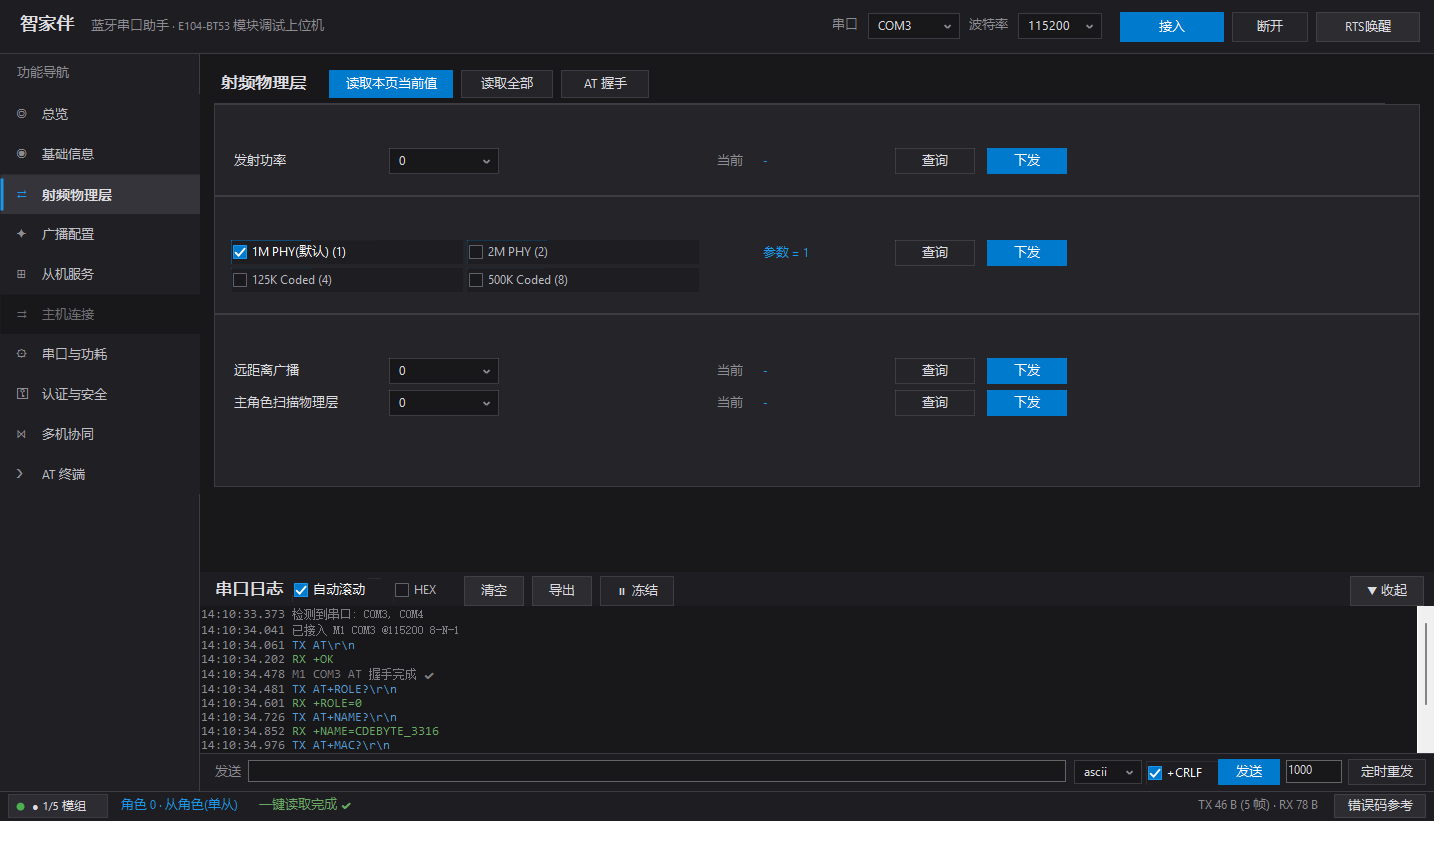
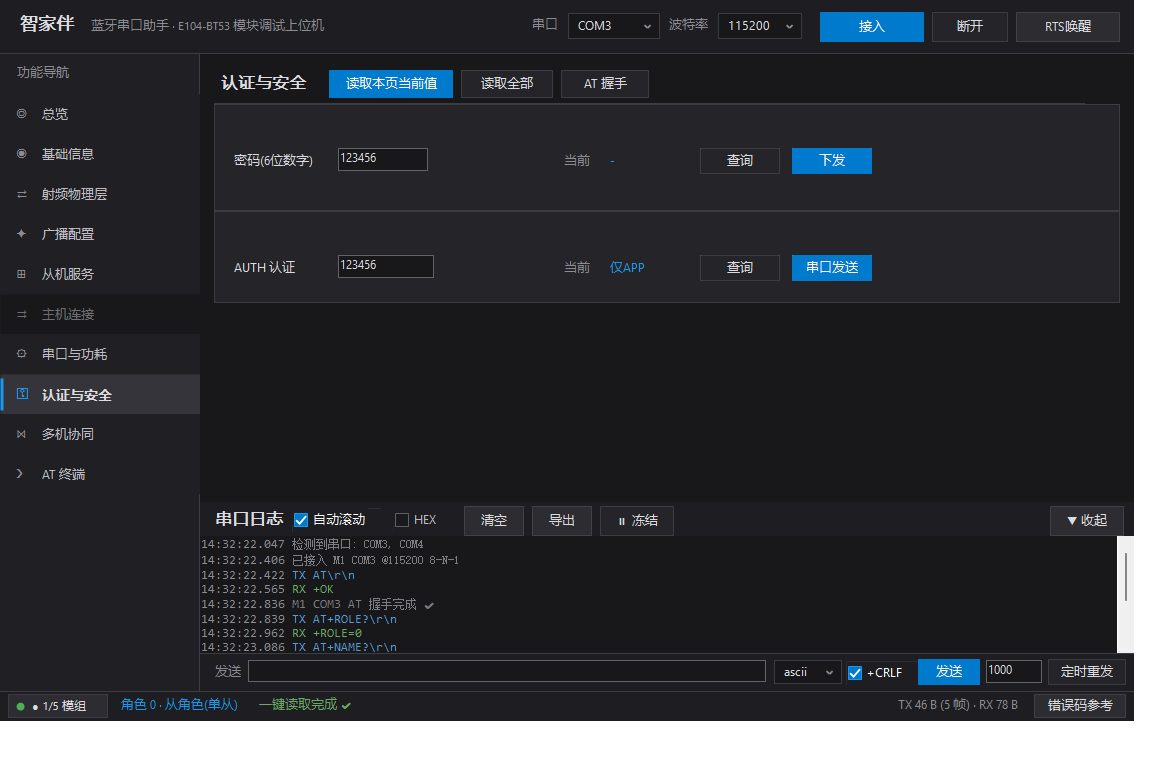
fix(ui): 认证页改为网格对齐,按钮文字自适应;多机列表深色表头+尾部填充列;支持 E104_PAGE 调试参数

diff --git a/src/pages_multi.cs b/src/pages_multi.cs
@@ -41,16 +41,46 @@ namespace E104
 
             devLv = new ListView();
             devLv.View = View.Details; devLv.FullRowSelect = true; devLv.HideSelection = false;
-            devLv.GridLines = true; devLv.BorderStyle = BorderStyle.FixedSingle;
+            devLv.GridLines = false; devLv.BorderStyle = BorderStyle.FixedSingle;
             devLv.BackColor = Color.FromArgb(24, 24, 27); devLv.ForeColor = Theme.TxT; devLv.Font = Theme.FMonoS;
+            devLv.OwnerDraw = true;
+            devLv.DrawColumnHeader += delegate(object s, DrawListViewColumnHeaderEventArgs e)
+            {
+                // 深色表头(系统默认是白底,与主题割裂)
+                using (SolidBrush b = new SolidBrush(Color.FromArgb(38, 38, 43)))
+                    e.Graphics.FillRectangle(b, e.Bounds);
+                using (Pen p = new Pen(Theme.Border))
+                    e.Graphics.DrawLine(p, e.Bounds.Left, e.Bounds.Bottom - 1, e.Bounds.Right, e.Bounds.Bottom - 1);
+                TextRenderer.DrawText(e.Graphics, e.Header.Text, Theme.F,
+                    e.Bounds, Color.FromArgb(200, 200, 208),
+                    TextFormatFlags.Left | TextFormatFlags.VerticalCenter | TextFormatFlags.NoPadding);
+            };
+            devLv.DrawItem += delegate(object s, DrawListViewItemEventArgs e) { };
+            devLv.DrawSubItem += delegate(object s, DrawListViewSubItemEventArgs e)
+            {
+                Color bg = (e.Item.Selected) ? Color.FromArgb(0, 60, 100) : Color.FromArgb(24, 24, 27);
+                using (SolidBrush b = new SolidBrush(bg)) e.Graphics.FillRectangle(b, e.Bounds);
+                Color fg = (e.ColumnIndex == 0) ? Theme.AccentHi : Theme.TxT;
+                TextRenderer.DrawText(e.Graphics, e.SubItem.Text, Theme.FMonoS,
+                    e.Bounds, fg, TextFormatFlags.Left | TextFormatFlags.VerticalCenter | TextFormatFlags.NoPadding);
+            };
             devLv.Columns.Add("编号", 60); devLv.Columns.Add("串口", 90);
             devLv.Columns.Add("角色", 90); devLv.Columns.Add("广播名", 150);
             devLv.Columns.Add("MAC", 170); devLv.Columns.Add("固件", 120);
             devLv.Columns.Add("状态", 100);
+            devLv.Columns.Add("", 40);   // 尾部填充列,吃掉右侧留白(否则表头/底色露出系统白色)
             rs.Host.Controls.Add(devLv);
-            devLv.SetBounds(14, rs.Y, 860, 128);
-            rs.Host.Resize += delegate { devLv.Width = Math.Max(500, rs.Host.ClientSize.Width - 28); };
-            rs.NewRow(134);
+            devLv.SetBounds(14, rs.Y, 860, 96);
+            rs.Host.Resize += delegate
+            {
+                devLv.Width = Math.Max(500, rs.Host.ClientSize.Width - 28);
+                // 尾部列自适应剩余宽度
+                int used = 0;
+                for (int ci = 0; ci < devLv.Columns.Count - 1; ci++) used += devLv.Columns[ci].Width;
+                int last = devLv.ClientSize.Width - used - 4;
+                devLv.Columns[devLv.Columns.Count - 1].Width = Math.Max(10, last);
+            };
+            rs.NewRow(102);
             devLv.DoubleClick += delegate { SetActiveSelected(); };
 
             rs.RowBegin(0);

diff --git a/tools/click_nav.cs b/tools/click_nav.cs
@@ -1,0 +1,52 @@
+// click_nav.cs — 通过模拟点击左侧导航按钮切换到指定页(调试专用)
+using System;
+using System.Diagnostics;
+using System.Drawing;
+using System.Drawing.Imaging;
+using System.Runtime.InteropServices;
+using System.Windows.Forms;
+
+class ClickNav
+{
+    [DllImport("user32.dll")] static extern bool SetForegroundWindow(IntPtr h);
+    [DllImport("user32.dll")] static extern bool SetCursorPos(int x, int y);
+    [DllImport("user32.dll")] static extern void mouse_event(uint f, uint dx, uint dy, uint d, UIntPtr e);
+    [DllImport("user32.dll")] static extern bool GetWindowRect(IntPtr h, out RECT r);
+    struct RECT { public int L, T, R, B; }
+    const uint LEFTDOWN = 0x0002, LEFTUP = 0x0004;
+
+    static int Main(string[] args)
+    {
+        if (args.Length < 3) { Console.WriteLine("用法: ClickNav.exe <pid> <导航序号0-9> <out.png>"); return 2; }
+        int pid = int.Parse(args[0]);
+        int nav = int.Parse(args[1]);
+        string outPng = args[2];
+        Process p = Process.GetProcessById(pid);
+        IntPtr h = p.MainWindowHandle;
+        if (h == IntPtr.Zero) { Console.WriteLine("无主窗口"); return 1; }
+        SetForegroundWindow(h);
+        System.Threading.Thread.Sleep(400);
+
+        RECT r; GetWindowRect(h, out r);
+        // 窗口含标题栏(约31px)与边框;导航起点在客户区内 y=40,每项高 40
+        int titleBar = 31;
+        int x = r.L + 100;
+        int y = r.T + titleBar + 40 + nav * 40 + 20;
+        SetCursorPos(x, y);
+        System.Threading.Thread.Sleep(150);
+        mouse_event(LEFTDOWN, 0, 0, 0, UIntPtr.Zero);
+        System.Threading.Thread.Sleep(80);
+        mouse_event(LEFTUP, 0, 0, 0, UIntPtr.Zero);
+        System.Threading.Thread.Sleep(700);
+
+        int w = r.R - r.L, ht = r.B - r.T;
+        using (Bitmap bmp = new Bitmap(w, ht))
+        using (Graphics g = Graphics.FromImage(bmp))
+        {
+            g.CopyFromScreen(r.L, r.T, 0, 0, new Size(w, ht));
+            bmp.Save(outPng, ImageFormat.Png);
+        }
+        Console.WriteLine("OK 点击导航 " + nav + " 并截图 → " + outPng);
+        return 0;
+    }
+}

diff --git a/src/pages_extra.cs b/src/pages_extra.cs
@@ -866,13 +866,33 @@ namespace E104
 
             Card c2 = MkCard(7, "APP 配置认证 AUTH(6.3.25)", "必须大写;实际由手机 APP 配置通道发送");
             RowStack rs2 = new RowStack(c2.Body);
-            rs2.RowBegin(0);
-            rs2.RowTitle("AUTH 认证", Tips["AUTH"]);
+
+            // 与上一张卡片同一套网格列:名称/输入/当前/值/查询/下发 全部对齐
+            Label aLbl = new Label();
+            aLbl.Text = "AUTH 认证"; aLbl.ForeColor = Theme.TxT; aLbl.Font = Theme.F; aLbl.AutoSize = true;
+            DarkTips.Set(aLbl, Tips["AUTH"]);
+
             authTxt = new TextBox(); Theme.StyleText(authTxt); authTxt.Width = 96; authTxt.Text = "123456";
-            rs2.RowControl(authTxt, 16, Tips["AUTH"]);
-            FlatBtn bgo = rs2.RowButton("串口发送(实测用)", 80, BtnKind.Normal, Tips["AUTH"]);
+            DarkTips.Set(authTxt, Tips["AUTH"]);
+
+            Label aKey = new Label(); aKey.Text = "当前"; aKey.ForeColor = Theme.Dim; aKey.AutoSize = true;
+            Label aVal = Theme.Cur(); aVal.AutoSize = true; aVal.Text = "仅APP";
+            DarkTips.Set(aVal, "AUTH 认证仅在手机 APP 配置通道有效\n串口发送 AT+AUTH 会返回 +ERR=4(实测正常现象)");
+            _cur["CUR_AUTH"] = aVal;
+
+            FlatBtn bq2 = new FlatBtn("查询", BtnKind.Normal); bq2.Width = 80; bq2.Height = 26;
+            bq2.Anchor = AnchorStyles.Right;
+            bq2.Click += delegate { QueryOne("AUTH"); DarkTips.Set(aVal, Tips["AUTH"]); };
+
+            // 按钮文案较长,按文字实测宽度,避免被截断
+            FlatBtn bgo = new FlatBtn("串口发送", BtnKind.Accent);
+            bgo.Height = 26;
+            bgo.Width = Math.Max(96, TextRenderer.MeasureText("串口发送", Theme.F).Width + 26);
+            bgo.Anchor = AnchorStyles.Right;
+            DarkTips.Set(bgo, Tips["AUTH"]);
             bgo.Click += delegate { SendAndWait("AT+AUTH=" + authTxt.Text, null); };
-            rs2.RowEnd(2);
+
+            rs2.AddGridRow(aLbl, authTxt, aKey, aVal, bq2, bgo);
             CardEnd(c2, rs2);
         }
 

diff --git a/src/program.cs b/src/program.cs
@@ -38,6 +38,10 @@ namespace E104
                     string[] args = Environment.GetCommandLineArgs();
                     int wantPage = -1;
                     bool autoConn = false;
+                    // 同时支持 --page:N 参数与环境变量 E104_PAGE(参数在部分启动方式下会丢失)
+                    string envPage = Environment.GetEnvironmentVariable("E104_PAGE");
+                    int ep;
+                    if (!string.IsNullOrEmpty(envPage) && int.TryParse(envPage, out ep)) wantPage = ep;
                     for (int i = 0; i < args.Length; i++)
                     {
                         if (args[i] != null && args[i].StartsWith("--page:", StringComparison.Ordinal))
@@ -47,10 +51,25 @@ namespace E104
                         }
                         if (args[i] != null && args[i] == "--autoconnect") autoConn = true;
                     }
-                    if (wantPage >= 0)
-                        f.Shown += delegate { f.BeginInvoke((MethodInvoker)delegate { f.SwitchPage(wantPage); }); };
+                    if (Environment.GetEnvironmentVariable("E104_AUTOCONNECT") == "1") autoConn = true;
+                    // 先连接;页面切换延后到应用自身定时器(避免被角色门控覆盖)
                     if (autoConn)
                         f.Shown += delegate { f.BeginInvoke((MethodInvoker)delegate { f.Connect(); }); };
+                    if (wantPage >= 0)
+                    {
+                        int target = wantPage;
+                        f.Shown += delegate
+                        {
+                            System.Windows.Forms.Timer t = new System.Windows.Forms.Timer();
+                            t.Interval = 2000;
+                            t.Tick += delegate
+                            {
+                                t.Stop(); t.Dispose();
+                                f.SwitchPage(target);
+                            };
+                            t.Start();
+                        };
+                    }
                 }
                 catch { }
 

diff --git a/src/ui_theme.cs b/src/ui_theme.cs
@@ -147,9 +147,22 @@ namespace E104
             using (Pen p = new Pen(border)) g.DrawRectangle(p, 0, 0, Width - 1, Height - 1);
 
             string shown = SanitizeText(Text);
-            SizeF sz = g.MeasureString(shown, Font);
+            // 文字宽度超过控件宽度时自动缩小字号,保证不截断
+            Font drawFont = Font;
+            SizeF sz = g.MeasureString(shown, drawFont);
+            if (sz.Width > Width - 8 && shown.Length > 0)
+            {
+                float scale = (Width - 8f) / sz.Width;
+                if (scale < 0.92f)
+                {
+                    float newSize = Math.Max(6.5f, Font.Size * scale);
+                    drawFont = new Font(Font.FontFamily, newSize, Font.Style);
+                    sz = g.MeasureString(shown, drawFont);
+                }
+            }
             using (SolidBrush tb = new SolidBrush(fg))
-                g.DrawString(shown, Font, tb, (Width - sz.Width) / 2f, (Height - sz.Height) / 2f);
+                g.DrawString(shown, drawFont, tb, Math.Max(2, (Width - sz.Width) / 2f), (Height - sz.Height) / 2f);
+            if (!ReferenceEquals(drawFont, Font)) drawFont.Dispose();
         }
     }
 

diff --git a/src/main_form.cs b/src/main_form.cs
@@ -795,7 +795,11 @@ namespace E104
             public FlatBtn RowButton(string text, int width, BtnKind kind, string tip)
             {
                 FlatBtn b = new FlatBtn(text, kind);
-                b.Width = width; b.Height = 26;
+                // 按钮宽度至少容纳文字(实测宽度 + 内边距),避免文字被截断
+                int need = TextRenderer.MeasureText(text ?? "", Theme.F,
+                              Size.Empty, TextFormatFlags.NoPadding | TextFormatFlags.SingleLine).Width + 28;
+                b.Width = Math.Max(width, need);
+                b.Height = 26;
                 if (_cur != null) _cur.Add(b, 6);
                 if (!string.IsNullOrEmpty(tip)) DarkTips.Set(b, tip);
                 return b;
